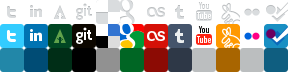
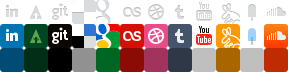
Update social networking links
- Twitter
 - Flickr
 - Foursquare
 + Dribbble
 + Fancy
 + Soundcloud

diff --git a/css/style.min.css b/css/style.min.css
@@ -1,1 +1,1 @@
-html,body,div,span,object,iframe,h1,h2,h3,h4,h5,h6,p,blockquote,pre,abbr,address,cite,code,del,dfn,em,img,ins,kbd,q,samp,small,strong,sub,sup,var,b,i,dl,dt,dd,ol,ul,li,fieldset,form,label,legend,table,caption,tbody,tfoot,thead,tr,th,td,article,aside,figure,footer,header,hgroup,menu,nav,section,menu,time,mark,audio,video{margin:0;border:0;outline:0;padding:0;font-size:100%;vertical-align:baseline;background:transparent;}article,aside,figure,footer,header,hgroup,nav,section{display:block;}nav ul{list-style:none;}blockquote,q{quotes:none;}blockquote:before,blockquote:after,q:before,q:after{content:'';content:none;}a{margin:0;padding:0;font-size:100%;vertical-align:baseline;background:transparent;}ins{background-color:#ff9;color:#000;text-decoration:none;}mark{background-color:#ff9;color:#000;font-style:italic;font-weight:bold;}del{text-decoration:line-through;}abbr[title],dfn[title]{border-bottom:1px dotted #000;cursor:help;}table{border-collapse:collapse;border-spacing:0;}hr{display:block;height:1px;border:0;border-top:1px solid #ccc;margin:1em 0;padding:0;}input,select{vertical-align:middle;}body{font:13px sans-serif;*font-size:small;*font:x-small;line-height:1.22;}table{font-size:inherit;font:100%;}select,input,textarea{font:99% sans-serif;}pre,code,kbd,samp{font-family:monospace,sans-serif;}body,select,input,textarea{color:#444;}h1,h2,h3,h4,h5,h6{font-weight:bold;text-rendering:optimizeLegibility;}html{-webkit-font-smoothing:antialiased;}a:hover,a:active{outline:none;}a,a:active,a:visited{color:#607890;}a:hover{color:#036;}ul{margin-left:30px;}ol{margin-left:30px;list-style-type:decimal;}small{font-size:85%;}strong,th{font-weight:bold;}td,td img{vertical-align:top;}sub{vertical-align:sub;font-size:smaller;}sup{vertical-align:super;font-size:smaller;}pre{padding:15px;white-space:pre;white-space:pre-wrap;white-space:pre-line;word-wrap:break-word;}input[type="radio"]{vertical-align:text-bottom;}input[type="checkbox"]{vertical-align:bottom;*vertical-align:baseline;}.ie6 input{vertical-align:text-bottom;}label,input[type=button],input[type=submit],button{cursor:pointer;}::-moz-selection{background:#f90;color:#fff;text-shadow:none;}::selection{background:#f90;color:#fff;text-shadow:none;}a:link{-webkit-tap-highlight-color:#f90;}button{width:auto;overflow:visible;}.ie7 img{-ms-interpolation-mode:bicubic;}.ir{display:block;text-indent:-999em;overflow:hidden;background-repeat:no-repeat;}.hidden{display:none;visibility:hidden;}.visuallyhidden{position:absolute!important;clip:rect(1px 1px 1px 1px);clip:rect(1px,1px,1px,1px);}.invisible{visibility:hidden;}.clearfix:after{content:".";display:block;height:0;clear:both;visibility:hidden;}.clearfix{display:inline-block;}* html .clearfix{height:1%;}.clearfix{display:block;}html,body{width:100%;height:100%;}html{background:#edf1f2 url(../img/bg.png);}body{position:relative;min-width:320px;min-height:540px;text-align:center;font-family:'Yanone Kaffeesatz',arial,sans-serif;background:transparent url(../img/shimmer.png) top center no-repeat;color:#7d7f80;}header{display:none;}div.middlr{position:absolute;width:100%;height:0;overflow:visible;}div.middlr.main{top:50%;}div.middlr.secondary{top:75%;}div.soon{position:absolute;top:-67px;width:100%;height:134px;font-weight:bold;line-height:1.2;vertical-align:middle;color:#fff;}div.soon p{position:relative;top:0;width:245px;height:100px;margin:0 auto;font-size:128px;line-height:100px;text-transform:uppercase;text-shadow:#bbbebf 0 5px 0,rgba(0,0,0,.25) 0 5px 5px;transition:all 100ms ease-in-out;-moz-transition:all 100ms ease-in-out;-webkit-transition:all 100ms ease-in-out;}div.soon p:hover{position:relative;top:3px;text-shadow:#bbbebf 0 2px 0,rgba(0,0,0,.25) 0 2px 2px;}div.soon small{top:0;margin-top:5px;display:block;font-size:24px;text-shadow:#a5a7a8 0 1px 0,#a5a7a8 0 2px 0,rgba(0,0,0,.25) 0 2px 5px;}.ie7 div.soon p,.ie8 div.soon p,.ie7 div.soon small,.ie8 div.soon small{color:#7d7f80;}.ie7 div.soon p:hover,.ie8 div.soon p:hover{top:0;}#content aside{position:absolute;top:-50px;width:100%;height:100px;}#content aside p{font-size:22px;}ul.socialist{width:204px;margin:5px auto;overflow:hidden;list-style:none inside;}ul.socialist li,ul.socialist li a{background-color:transparent;background-image:url(../img/socialist-bg.png);background-repeat:no-repeat;}ul.socialist li{margin:5px;border-radius:2px;-moz-border-radius:2px;-webkit-border-radius:2px;box-shadow:#bfbfbf 0 0 2px;-moz-box-shadow:#bfbfbf 0 0 2px;-webkit-box-shadow:#bfbfbf 0 0 2px;display:block;float:left;list-style-type:none;background-position:-192px -48px;transition:box-shadow 100ms ease-in-out;-moz-transition:-moz-box-shadow 100ms ease-in-out;-webkit-transition:-webkit-box-shadow 100ms ease-in-out;}ul.socialist li:hover{box-shadow:#bfbfbf 0 0 4px;-moz-box-shadow:#bfbfbf 0 0 4px;-webkit-box-shadow:#bfbfbf 0 0 4px;}ul.socialist li:active{box-shadow:#bfbfbf 0 0 1px;-moz-box-shadow:#bfbfbf 0 0 1px;-webkit-box-shadow:#bfbfbf 0 0 1px;}ul.socialist li a{position:relative;top:-2px;width:24px;height:24px;display:inline-block;text-indent:-9999px;transition:top 100ms ease-in-out;-moz-transition:top 100ms ease-in-out;-webkit-transition:top 100ms ease-in-out;}ul.socialist li:hover a{top:-4px;}ul.socialist li.active a,ul.socialist li:active a{top:-1px;}ul.socialist li.twitter a{background-position:0 0;}ul.socialist li.twitter:hover a{background-position:0 -24px;}ul.socialist li.twitter:hover{box-shadow:rgba(34,135,168,.75) 0 0 4px;-moz-box-shadow:rgba(34,135,168,.75) 0 0 4px;-webkit-box-shadow:rgba(34,135,168,.75) 0 0 4px;background-position:0 -48px;}ul.socialist li.linkedin a{background-position:-24px 0;}ul.socialist li.linkedin:hover a{background-position:-24px -24px;}ul.socialist li.linkedin:hover{box-shadow:rgba(0,76,117,.75) 0 0 4px;-moz-box-shadow:rgba(0,76,117,.75) 0 0 4px;-webkit-box-shadow:rgba(0,76,117,.75) 0 0 4px;background-position:-24px -48px;}ul.socialist li.forrst a{background-position:-48px 0;}ul.socialist li.forrst:hover a{background-position:-48px -24px;}ul.socialist li.forrst:hover{box-shadow:rgba(0,46,23,.75) 0 0 4px;-moz-box-shadow:rgba(0,46,23,.75) 0 0 4px;-webkit-box-shadow:rgba(0,46,23,.75) 0 0 4px;background-position:-48px -48px;}ul.socialist li.github a{background-position:-72px 0;}ul.socialist li.github:hover a{background-position:-72px -24px;}ul.socialist li.github:hover{box-shadow:rgba(0,0,0,.5) 0 0 4px;-moz-box-shadow:rgba(0,0,0,.5) 0 0 4px;-webkit-box-shadow:rgba(0,0,0,.5) 0 0 4px;background-position:-72px -48px;}ul.socialist li.delicious a{background-position:-96px 0;}ul.socialist li.delicious:hover a{background-position:-96px -24px;}ul.socialist li.delicious:hover{box-shadow:rgba(145,145,145,.75) 0 0 4px;-moz-box-shadow:rgba(145,145,145,.75) 0 0 4px;-webkit-box-shadow:rgba(145,145,145,.75) 0 0 4px;background-position:-96px -48px;}ul.socialist li.greader a{background-position:-120px 0;}ul.socialist li.greader:hover a{background-position:-120px -24px;}ul.socialist li.greader:hover{box-shadow:rgba(0,102,36,.75) 0 0 4px;-moz-box-shadow:rgba(0,102,36,.75) 0 0 4px;-webkit-box-shadow:rgba(0,102,36,.75) 0 0 4px;background-position:-120px -48px;}ul.socialist li.lastfm a{background-position:-144px 0;}ul.socialist li.lastfm:hover a{background-position:-144px -24px;}ul.socialist li.lastfm:hover{box-shadow:rgba(140,11,4,.75) 0 0 4px;-moz-box-shadow:rgba(140,11,4,.75) 0 0 4px;-webkit-box-shadow:rgba(140,11,4,.75) 0 0 4px;background-position:-144px -48px;}ul.socialist li.tumblr a{background-position:-168px 0;}ul.socialist li.tumblr:hover a{background-position:-168px -24px;}ul.socialist li.tumblr:hover{box-shadow:rgba(46,56,71,.75) 0 0 4px;-moz-box-shadow:rgba(46,56,71,.75) 0 0 4px;-webkit-box-shadow:rgba(46,56,71,.75) 0 0 4px;background-position:-168px -48px;}ul.socialist li.youtube a{background-position:-192px 0;}ul.socialist li.youtube:hover a{background-position:-192px -24px;}ul.socialist li.youtube:hover{background-position:-192px -48px;}ul.socialist li.gowalla a{background-position:-216px 0;}ul.socialist li.gowalla:hover a{background-position:-216px -24px;}ul.socialist li.gowalla:hover{box-shadow:rgba(168,101,0,.75) 0 0 4px;-moz-box-shadow:rgba(168,101,0,.75) 0 0 4px;-webkit-box-shadow:rgba(168,101,0,.75) 0 0 4px;background-position:-216px -48px;}ul.socialist li.flickr a{background-position:-240px 0;}ul.socialist li.flickr:hover a{background-position:-240px -24px;}ul.socialist li.flickr:hover{background-position:-240px -48px;}ul.socialist li.foursquare a{background-position:-264px 0;}ul.socialist li.foursquare:hover a{background-position:-264px -24px;}ul.socialist li.foursquare:hover{box-shadow:rgba(15,94,128,.75) 0 0 4px;-moz-box-shadow:rgba(15,94,128,.75) 0 0 4px;-webkit-box-shadow:rgba(15,94,128,.75) 0 0 4px;background-position:-264px -48px;}@media screen and(max-device-width:480px) and(orientation:portrait){html{-webkit-text-size-adjust:none;-ms-text-size-adjust:none;}body{min-height:356px;}div.middlr.main{top:33%;}div.middlr.secondary{top:75%;}}@media screen and(max-device-width:480px) and(orientation:landscape){html{-webkit-text-size-adjust:none;-ms-text-size-adjust:none;}body{min-height:208px;}div.middlr.main{top:25%;}div.middlr.secondary{top:66%;}div.soon{-webkit-transform:scale(.5);}}
+html,body,div,span,object,iframe,h1,h2,h3,h4,h5,h6,p,blockquote,pre,abbr,address,cite,code,del,dfn,em,img,ins,kbd,q,samp,small,strong,sub,sup,var,b,i,dl,dt,dd,ol,ul,li,fieldset,form,label,legend,table,caption,tbody,tfoot,thead,tr,th,td,article,aside,figure,footer,header,hgroup,menu,nav,section,menu,time,mark,audio,video{margin:0;border:0;outline:0;padding:0;font-size:100%;vertical-align:baseline;background:transparent;}article,aside,figure,footer,header,hgroup,nav,section{display:block;}nav ul{list-style:none;}blockquote,q{quotes:none;}blockquote:before,blockquote:after,q:before,q:after{content:'';content:none;}a{margin:0;padding:0;font-size:100%;vertical-align:baseline;background:transparent;}ins{background-color:#ff9;color:#000;text-decoration:none;}mark{background-color:#ff9;color:#000;font-style:italic;font-weight:bold;}del{text-decoration:line-through;}abbr[title],dfn[title]{border-bottom:1px dotted #000;cursor:help;}table{border-collapse:collapse;border-spacing:0;}hr{display:block;height:1px;border:0;border-top:1px solid #ccc;margin:1em 0;padding:0;}input,select{vertical-align:middle;}body{font:13px sans-serif;*font-size:small;*font:x-small;line-height:1.22;}table{font-size:inherit;font:100%;}select,input,textarea{font:99% sans-serif;}pre,code,kbd,samp{font-family:monospace,sans-serif;}body,select,input,textarea{color:#444;}h1,h2,h3,h4,h5,h6{font-weight:bold;text-rendering:optimizeLegibility;}html{-webkit-font-smoothing:antialiased;}a:hover,a:active{outline:none;}a,a:active,a:visited{color:#607890;}a:hover{color:#036;}ul{margin-left:30px;}ol{margin-left:30px;list-style-type:decimal;}small{font-size:85%;}strong,th{font-weight:bold;}td,td img{vertical-align:top;}sub{vertical-align:sub;font-size:smaller;}sup{vertical-align:super;font-size:smaller;}pre{padding:15px;white-space:pre;white-space:pre-wrap;white-space:pre-line;word-wrap:break-word;}input[type="radio"]{vertical-align:text-bottom;}input[type="checkbox"]{vertical-align:bottom;*vertical-align:baseline;}.ie6 input{vertical-align:text-bottom;}label,input[type=button],input[type=submit],button{cursor:pointer;}::-moz-selection{background:#f90;color:#fff;text-shadow:none;}::selection{background:#f90;color:#fff;text-shadow:none;}a:link{-webkit-tap-highlight-color:#f90;}button{width:auto;overflow:visible;}.ie7 img{-ms-interpolation-mode:bicubic;}.ir{display:block;text-indent:-999em;overflow:hidden;background-repeat:no-repeat;}.hidden{display:none;visibility:hidden;}.visuallyhidden{position:absolute!important;clip:rect(1px 1px 1px 1px);clip:rect(1px,1px,1px,1px);}.invisible{visibility:hidden;}.clearfix:after{content:".";display:block;height:0;clear:both;visibility:hidden;}.clearfix{display:inline-block;}* html .clearfix{height:1%;}.clearfix{display:block;}html,body{width:100%;height:100%;}html{background:#edf1f2 url(../img/bg.png);}body{position:relative;min-width:320px;min-height:540px;text-align:center;font-family:'Yanone Kaffeesatz',arial,sans-serif;background:transparent url(../img/shimmer.png) top center no-repeat;color:#7d7f80;}header{display:none;}div.middlr{position:absolute;width:100%;height:0;overflow:visible;}div.middlr.main{top:50%;}div.middlr.secondary{top:75%;}div.soon{position:absolute;top:-67px;width:100%;height:134px;font-weight:bold;line-height:1.2;vertical-align:middle;color:#fff;}div.soon p{position:relative;top:0;width:245px;height:100px;margin:0 auto;font-size:128px;line-height:100px;text-transform:uppercase;text-shadow:#bbbebf 0 5px 0,rgba(0,0,0,.25) 0 5px 5px;transition:all 100ms ease-in-out;-moz-transition:all 100ms ease-in-out;-webkit-transition:all 100ms ease-in-out;}div.soon p:hover{position:relative;top:3px;text-shadow:#bbbebf 0 2px 0,rgba(0,0,0,.25) 0 2px 2px;}div.soon small{top:0;margin-top:5px;display:block;font-size:24px;text-shadow:#a5a7a8 0 1px 0,#a5a7a8 0 2px 0,rgba(0,0,0,.25) 0 2px 5px;}.ie7 div.soon p,.ie8 div.soon p,.ie7 div.soon small,.ie8 div.soon small{color:#7d7f80;}.ie7 div.soon p:hover,.ie8 div.soon p:hover{top:0;}#content aside{position:absolute;top:-50px;width:100%;height:100px;}#content aside p{font-size:22px;}ul.socialist{width:204px;margin:5px auto;overflow:hidden;list-style:none inside;}ul.socialist li,ul.socialist li a{background-color:transparent;background-image:url(../img/socialist-bg.png);background-repeat:no-repeat;}ul.socialist li{margin:5px;border-radius:2px;-moz-border-radius:2px;-webkit-border-radius:2px;box-shadow:#bfbfbf 0 0 2px;-moz-box-shadow:#bfbfbf 0 0 2px;-webkit-box-shadow:#bfbfbf 0 0 2px;display:block;float:left;list-style-type:none;background-position:-192px -48px;transition:box-shadow 100ms ease-in-out;-moz-transition:-moz-box-shadow 100ms ease-in-out;-webkit-transition:-webkit-box-shadow 100ms ease-in-out;}ul.socialist li:hover{box-shadow:#bfbfbf 0 0 4px;-moz-box-shadow:#bfbfbf 0 0 4px;-webkit-box-shadow:#bfbfbf 0 0 4px;}ul.socialist li:active{box-shadow:#bfbfbf 0 0 1px;-moz-box-shadow:#bfbfbf 0 0 1px;-webkit-box-shadow:#bfbfbf 0 0 1px;}ul.socialist li a{position:relative;top:-2px;width:24px;height:24px;display:inline-block;text-indent:-9999px;transition:top 100ms ease-in-out;-moz-transition:top 100ms ease-in-out;-webkit-transition:top 100ms ease-in-out;}ul.socialist li:hover a{top:-4px;}ul.socialist li.active a,ul.socialist li:active a{top:-1px;}ul.socialist li.linkedin a{background-position:0 0;}ul.socialist li.linkedin:hover a{background-position:0 -24px;}ul.socialist li.linkedin:hover{box-shadow:rgba(0,76,117,.75) 0 0 4px;-moz-box-shadow:rgba(0,76,117,.75) 0 0 4px;-webkit-box-shadow:rgba(0,76,117,.75) 0 0 4px;background-position:0 -48px;}ul.socialist li.forrst a{background-position:-24px 0;}ul.socialist li.forrst:hover a{background-position:-24px -24px;}ul.socialist li.forrst:hover{box-shadow:rgba(0,46,23,.75) 0 0 4px;-moz-box-shadow:rgba(0,46,23,.75) 0 0 4px;-webkit-box-shadow:rgba(0,46,23,.75) 0 0 4px;background-position:-24px -48px;}ul.socialist li.github a{background-position:-48px 0;}ul.socialist li.github:hover a{background-position:-48px -24px;}ul.socialist li.github:hover{box-shadow:rgba(0,0,0,.5) 0 0 4px;-moz-box-shadow:rgba(0,0,0,.5) 0 0 4px;-webkit-box-shadow:rgba(0,0,0,.5) 0 0 4px;background-position:-48px -48px;}ul.socialist li.delicious a{background-position:-72px 0;}ul.socialist li.delicious:hover a{background-position:-72px -24px;}ul.socialist li.delicious:hover{box-shadow:rgba(145,145,145,.75) 0 0 4px;-moz-box-shadow:rgba(145,145,145,.75) 0 0 4px;-webkit-box-shadow:rgba(145,145,145,.75) 0 0 4px;background-position:-72px -48px;}ul.socialist li.greader a{background-position:-96px 0;}ul.socialist li.greader:hover a{background-position:-96px -24px;}ul.socialist li.greader:hover{box-shadow:rgba(0,102,36,.75) 0 0 4px;-moz-box-shadow:rgba(0,102,36,.75) 0 0 4px;-webkit-box-shadow:rgba(0,102,36,.75) 0 0 4px;background-position:-96px -48px;}ul.socialist li.lastfm a{background-position:-120px 0;}ul.socialist li.lastfm:hover a{background-position:-120px -24px;}ul.socialist li.lastfm:hover{box-shadow:rgba(140,11,4,.75) 0 0 4px;-moz-box-shadow:rgba(140,11,4,.75) 0 0 4px;-webkit-box-shadow:rgba(140,11,4,.75) 0 0 4px;background-position:-120px -48px;}ul.socialist li.dribbble a{background-position:-144px 0;}ul.socialist li.dribbble:hover a{background-position:-144px -24px;}ul.socialist li.dribbble:hover{box-shadow:rgba(161,51,93,.75) 0 0 4px;-moz-box-shadow:rgba(161,51,93,.75) 0 0 4px;-webkit-box-shadow:rgba(161,51,93,.75) 0 0 4px;background-position:-144px -48px;}ul.socialist li.tumblr a{background-position:-168px 0;}ul.socialist li.tumblr:hover a{background-position:-168px -24px;}ul.socialist li.tumblr:hover{box-shadow:rgba(46,56,71,.75) 0 0 4px;-moz-box-shadow:rgba(46,56,71,.75) 0 0 4px;-webkit-box-shadow:rgba(46,56,71,.75) 0 0 4px;background-position:-168px -48px;}ul.socialist li.youtube a{background-position:-192px 0;}ul.socialist li.youtube:hover a{background-position:-192px -24px;}ul.socialist li.youtube:hover{background-position:-192px -48px;}ul.socialist li.gowalla a{background-position:-216px 0;}ul.socialist li.gowalla:hover a{background-position:-216px -24px;}ul.socialist li.gowalla:hover{box-shadow:rgba(168,101,0,.75) 0 0 4px;-moz-box-shadow:rgba(168,101,0,.75) 0 0 4px;-webkit-box-shadow:rgba(168,101,0,.75) 0 0 4px;background-position:-216px -48px;}ul.socialist li.fancy a{background-position:-240px 0;}ul.socialist li.fancy:hover a{background-position:-240px -24px;}ul.socialist li.fancy:hover{background-position:-240px -48px;}ul.socialist li.soundcloud a{background-position:-264px 0;}ul.socialist li.soundcloud:hover a{background-position:-264px -24px;}ul.socialist li.soundcloud:hover{box-shadow:rgba(191,43,2,.75) 0 0 4px;-moz-box-shadow:rgba(191,43,2,.75) 0 0 4px;-webkit-box-shadow:rgba(191,43,2,.75) 0 0 4px;background-position:-264px -48px;}@media screen and(max-device-width:480px) and(orientation:portrait){html{-webkit-text-size-adjust:none;-ms-text-size-adjust:none;}body{min-height:356px;}div.middlr.main{top:33%;}div.middlr.secondary{top:75%;}}@media screen and(max-device-width:480px) and(orientation:landscape){html{-webkit-text-size-adjust:none;-ms-text-size-adjust:none;}body{min-height:208px;}div.middlr.main{top:25%;}div.middlr.secondary{top:66%;}div.soon{-webkit-transform:scale(.5);}}

diff --git a/css/style.css b/css/style.css
@@ -210,66 +210,66 @@ ul.socialist li:hover a             { top:-4px; }
 ul.socialist li.active a,
 ul.socialist li:active a            { top:-1px; }
 
-ul.socialist li.twitter a           { background-position:0 0; }
-ul.socialist li.twitter:hover a     { background-position:0 -24px; }
-ul.socialist li.twitter:hover {
-    box-shadow:rgba(34,135,168,.75) 0 0 4px;
-    -moz-box-shadow:rgba(34,135,168,.75) 0 0 4px;
-    -webkit-box-shadow:rgba(34,135,168,.75) 0 0 4px;
-    background-position:0 -48px;
-}
-
-ul.socialist li.linkedin a          { background-position:-24px 0; }
-ul.socialist li.linkedin:hover a    { background-position:-24px -24px; }
+ul.socialist li.linkedin a           { background-position:0 0; }
+ul.socialist li.linkedin:hover a     { background-position:0 -24px; }
 ul.socialist li.linkedin:hover {
     box-shadow:rgba(0,76,117,.75) 0 0 4px;
     -moz-box-shadow:rgba(0,76,117,.75) 0 0 4px;
     -webkit-box-shadow:rgba(0,76,117,.75) 0 0 4px;
-    background-position:-24px -48px;
+    background-position:0 -48px;
 }
 
-ul.socialist li.forrst a            { background-position:-48px 0; }
-ul.socialist li.forrst:hover a      { background-position:-48px -24px; }
+ul.socialist li.forrst a          { background-position:-24px 0; }
+ul.socialist li.forrst:hover a    { background-position:-24px -24px; }
 ul.socialist li.forrst:hover {
     box-shadow:rgba(0,46,23,.75) 0 0 4px;
     -moz-box-shadow:rgba(0,46,23,.75) 0 0 4px;
     -webkit-box-shadow:rgba(0,46,23,.75) 0 0 4px;
-    background-position:-48px -48px;
+    background-position:-24px -48px;
 }
 
-ul.socialist li.github a            { background-position:-72px 0; }
-ul.socialist li.github:hover a      { background-position:-72px -24px; }
+ul.socialist li.github a            { background-position:-48px 0; }
+ul.socialist li.github:hover a      { background-position:-48px -24px; }
 ul.socialist li.github:hover {
     box-shadow:rgba(0,0,0,.5) 0 0 4px;
     -moz-box-shadow:rgba(0,0,0,.5) 0 0 4px;
     -webkit-box-shadow:rgba(0,0,0,.5) 0 0 4px;
-    background-position:-72px -48px;
+    background-position:-48px -48px;
 }
 
-ul.socialist li.delicious a         { background-position:-96px 0; }
-ul.socialist li.delicious:hover a   { background-position:-96px -24px; }
+ul.socialist li.delicious a            { background-position:-72px 0; }
+ul.socialist li.delicious:hover a      { background-position:-72px -24px; }
 ul.socialist li.delicious:hover {
     box-shadow:rgba(145,145,145,.75) 0 0 4px;
     -moz-box-shadow:rgba(145,145,145,.75) 0 0 4px;
     -webkit-box-shadow:rgba(145,145,145,.75) 0 0 4px;
-    background-position:-96px -48px;
+    background-position:-72px -48px;
 }
 
-ul.socialist li.greader a           { background-position:-120px 0; }
-ul.socialist li.greader:hover a     { background-position:-120px -24px; }
+ul.socialist li.greader a         { background-position:-96px 0; }
+ul.socialist li.greader:hover a   { background-position:-96px -24px; }
 ul.socialist li.greader:hover {
     box-shadow:rgba(0,102,36,.75) 0 0 4px;
     -moz-box-shadow:rgba(0,102,36,.75) 0 0 4px;
     -webkit-box-shadow:rgba(0,102,36,.75) 0 0 4px;
-    background-position:-120px -48px;
+    background-position:-96px -48px;
 }
 
-ul.socialist li.lastfm a            { background-position:-144px 0; }
-ul.socialist li.lastfm:hover a      { background-position:-144px -24px; }
+ul.socialist li.lastfm a           { background-position:-120px 0; }
+ul.socialist li.lastfm:hover a     { background-position:-120px -24px; }
 ul.socialist li.lastfm:hover {
     box-shadow:rgba(140,11,4,.75) 0 0 4px;
     -moz-box-shadow:rgba(140,11,4,.75) 0 0 4px;
     -webkit-box-shadow:rgba(140,11,4,.75) 0 0 4px;
+    background-position:-120px -48px;
+}
+
+ul.socialist li.dribbble a            { background-position:-144px 0; }
+ul.socialist li.dribbble:hover a      { background-position:-144px -24px; }
+ul.socialist li.dribbble:hover {
+    box-shadow:rgba(161,51,93,.75) 0 0 4px;
+    -moz-box-shadow:rgba(161,51,93,.75) 0 0 4px;
+    -webkit-box-shadow:rgba(161,51,93,.75) 0 0 4px;
     background-position:-144px -48px;
 }
 
@@ -295,16 +295,16 @@ ul.socialist li.gowalla:hover       {
     background-position:-216px -48px;
 }
 
-ul.socialist li.flickr a            { background-position:-240px 0; }
-ul.socialist li.flickr:hover a      { background-position:-240px -24px; }
-ul.socialist li.flickr:hover        { background-position:-240px -48px; }
+ul.socialist li.fancy a            { background-position:-240px 0; }
+ul.socialist li.fancy:hover a      { background-position:-240px -24px; }
+ul.socialist li.fancy:hover        { background-position:-240px -48px; }
 
-ul.socialist li.foursquare a        { background-position:-264px 0; }
-ul.socialist li.foursquare:hover a  { background-position:-264px -24px; }
-ul.socialist li.foursquare:hover {
-    box-shadow:rgba(15,94,128,.75) 0 0 4px;
-    -moz-box-shadow:rgba(15,94,128,.75) 0 0 4px;
-    -webkit-box-shadow:rgba(15,94,128,.75) 0 0 4px;
+ul.socialist li.soundcloud a        { background-position:-264px 0; }
+ul.socialist li.soundcloud:hover a  { background-position:-264px -24px; }
+ul.socialist li.soundcloud:hover {
+    box-shadow:rgba(191,43,2,.75) 0 0 4px;
+    -moz-box-shadow:rgba(191,43,2,.75) 0 0 4px;
+    -webkit-box-shadow:rgba(191,43,2,.75) 0 0 4px;
     background-position:-264px -48px;
 }
 

diff --git a/index.html b/index.html
@@ -48,18 +48,18 @@
                 <aside>
                     <p>meanwhile, you can stalk me</p>
                     <ul class="socialist">
-                        <li class="twitter"><a href="http://twitter.com/javizf" title="Follow me on Twitter">Twitter</a></li>
                         <li class="linkedin"><a href="http://es.linkedin.com/in/javierzapata82" title="Join my network on LinkedIn">LinkedIn</a></li>
                         <li class="forrst"><a href="http://forrst.com/people/nkm" title="Follow me on Forrst">Forrst</a></li>
                         <li class="github"><a href="http://github.com/nkm" title="Fork me on GitHub">GitHub</a></li>
                         <li class="delicious"><a href="http://www.delicious.com/nkm82" title="Become a fan on delicious">delicious</a></li>
                         <li class="greader"><a href="http://www.google.com/reader/shared/javierzapata82" title="Follow me on Google">Google Reader</a></li>
                         <li class="lastfm"><a href="http://www.last.fm/user/nkm82" title="Be my friend on Last.fm">Last.fm</a></li>
+                        <li class="dribbble"><a href="http://dribbble.com/javi" title="Follow me on Dribbble">Dribbble</a></li>
                         <li class="tumblr"><a href="http://nkm.tumblr.com/" title="Follow me on Tumblr.">Tumblr.</a></li>
                         <li class="youtube"><a href="http://www.youtube.com/user/nkm82" title="Be my friend on YouTube">YouTube</a></li>
                         <li class="gowalla"><a href="http://gowalla.com/users/nkm" title="Be my friend on Gowalla">Gowalla</a></li>
-                        <li class="flickr"><a href="http://www.flickr.com/photos/nkm82/" title="Add me as contact on Flickr">Flickr</a></li>
-                        <li class="foursquare"><a href="http://foursquare.com/user/javizf" title="Be my friend on Foursquare">Foursquare</a></li>
+                        <li class="fancy"><a href="http://www.thefancy.com/nkm" title="Follow me on Fancy">Fancy</a></li>
+                        <li class="soundcloud"><a href="http://soundcloud.com/nkm" title="Follow me on Soundcloud">Soundcloud</a></li>
                     </ul>
                 </aside>
             </div>
